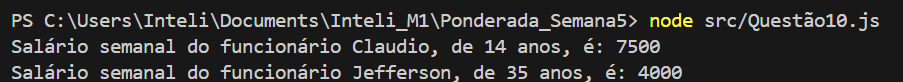
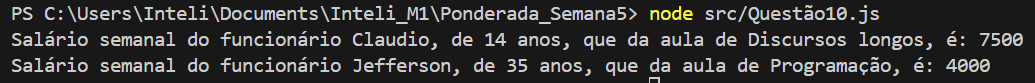
Corrigindo problemas no arquivo

diff --git a/src/Questão10.js b/src/Questão10.js
@@ -12,8 +12,10 @@ class Funcionario{
 }
 
 class Professor extends Funcionario{
-    constructor(nome,idade,salarioBase,horasTrabalhadas){
+    constructor(nome,idade,salarioBase,disciplina,horasTrabalhadas){
         super(nome,idade,salarioBase);
+        //disciplina qual o professor ministra
+        this.disciplina = disciplina;
         //horas de aula do professor naquela semana
         this.horasTrabalhadas = horasTrabalhadas;
     }
@@ -23,11 +25,11 @@ class Professor extends Funcionario{
         //salario base (Salario/hora) multiplicado pelas horas que o professor trabalho
         this.salarioSemanal = this.salarioBase*this.horasTrabalhadas;
         //exibi as informacoes e salario semanal do funcionario
-        console.log(`Salário semanal do funcionário ${this.nome}, de ${this.idade} anos, é: ${this.salarioSemanal}`);
+        console.log(`Salário semanal do funcionário ${this.nome}, de ${this.idade} anos, que da aula de ${this.disciplina}, é: ${this.salarioSemanal}`);
     }
 }
 
-const claudio = new Professor("Claudio",14,150,50);
-const jeff = new Professor("Jefferson",35,50,80);
+const claudio = new Professor("Claudio",14,150,"Discursos longos",50);
+const jeff = new Professor("Jefferson",35,50,"Programação",80);
 claudio.calcularSalario();
 jeff.calcularSalario();

diff --git a/lista_01.md b/lista_01.md
@@ -257,8 +257,10 @@ class Funcionario{
 }
 
 class Professor extends Funcionario{
-    constructor(nome,idade,salarioBase,horasTrabalhadas){
+    constructor(nome,idade,salarioBase,disciplina,horasTrabalhadas){
         super(nome,idade,salarioBase);
+        //disciplina qual o professor ministra
+        this.disciplina = disciplina;
         //horas de aula do professor naquela semana
         this.horasTrabalhadas = horasTrabalhadas;
     }
@@ -268,12 +270,12 @@ class Professor extends Funcionario{
         //salario base (Salario/hora) multiplicado pelas horas que o professor trabalho
         this.salarioSemanal = this.salarioBase*this.horasTrabalhadas;
         //exibi as informacoes e salario semanal do funcionario
-        console.log(`Salário semanal do funcionário ${this.nome}, de ${this.idade} anos, é: ${this.salarioSemanal}`);
+        console.log(`Salário semanal do funcionário ${this.nome}, de ${this.idade} anos, que da aula de ${this.disciplina}, é: ${this.salarioSemanal}`);
     }
 }
 
-const claudio = new Professor("Claudio",14,150,50);
-const jeff = new Professor("Jefferson",35,50,80);
+const claudio = new Professor("Claudio",14,150,"Discursos longos",50);
+const jeff = new Professor("Jefferson",35,50,"Programação",80);
 claudio.calcularSalario();
 jeff.calcularSalario();
 ```
